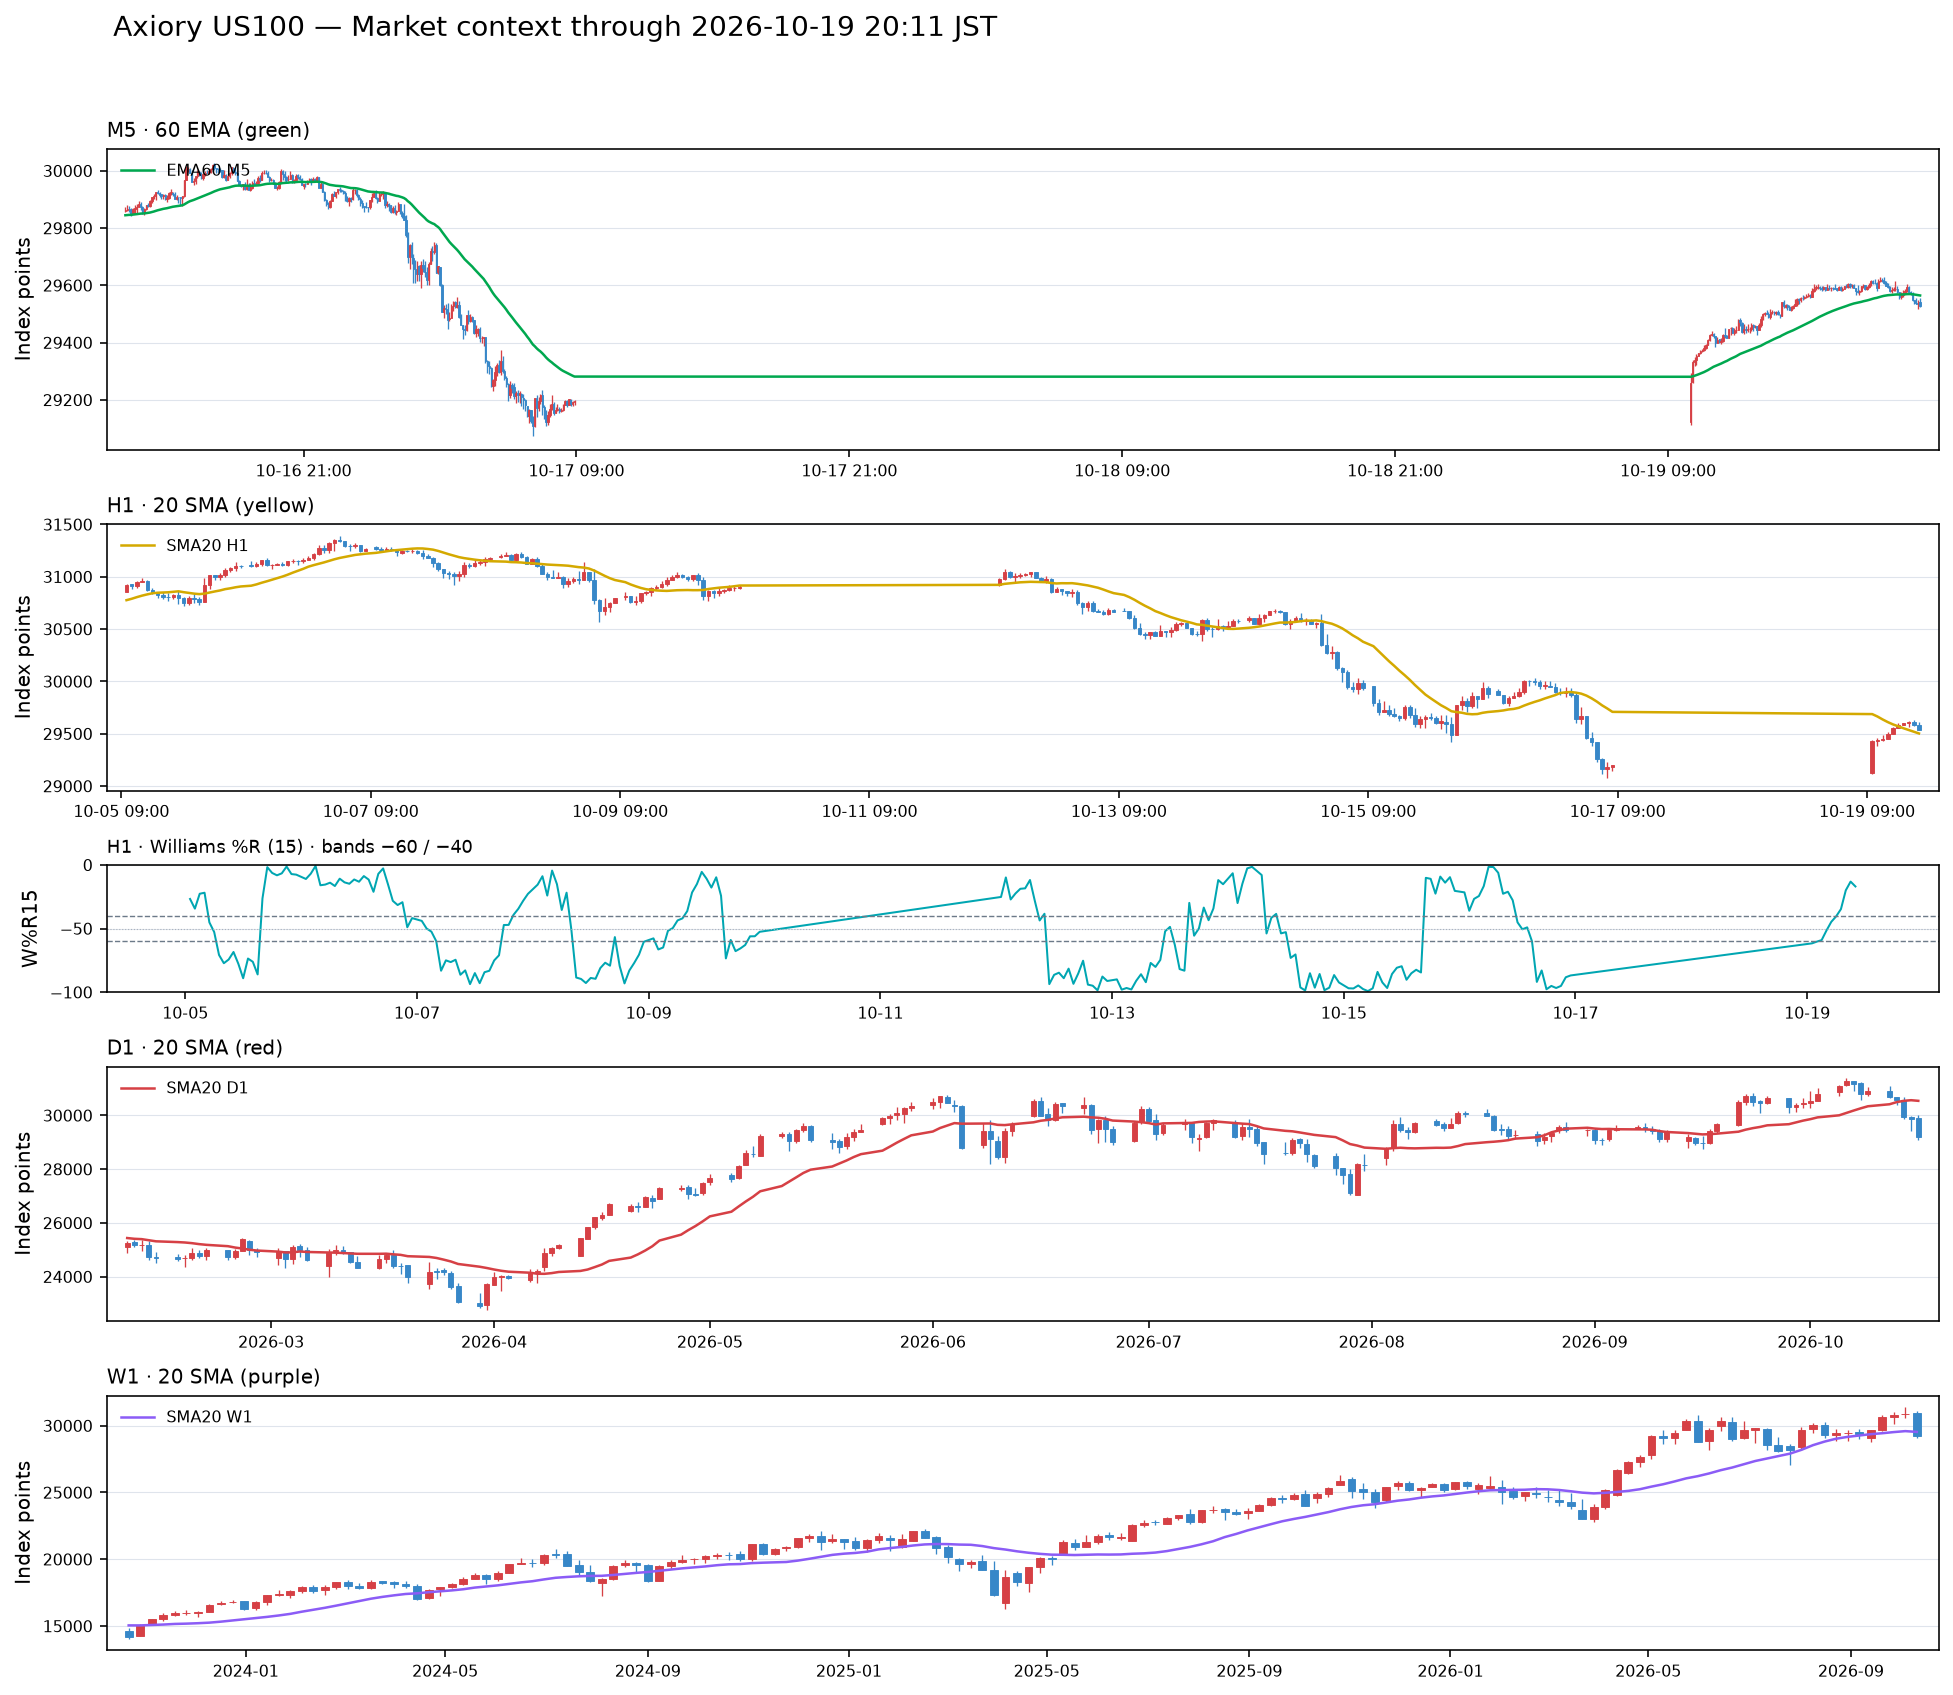
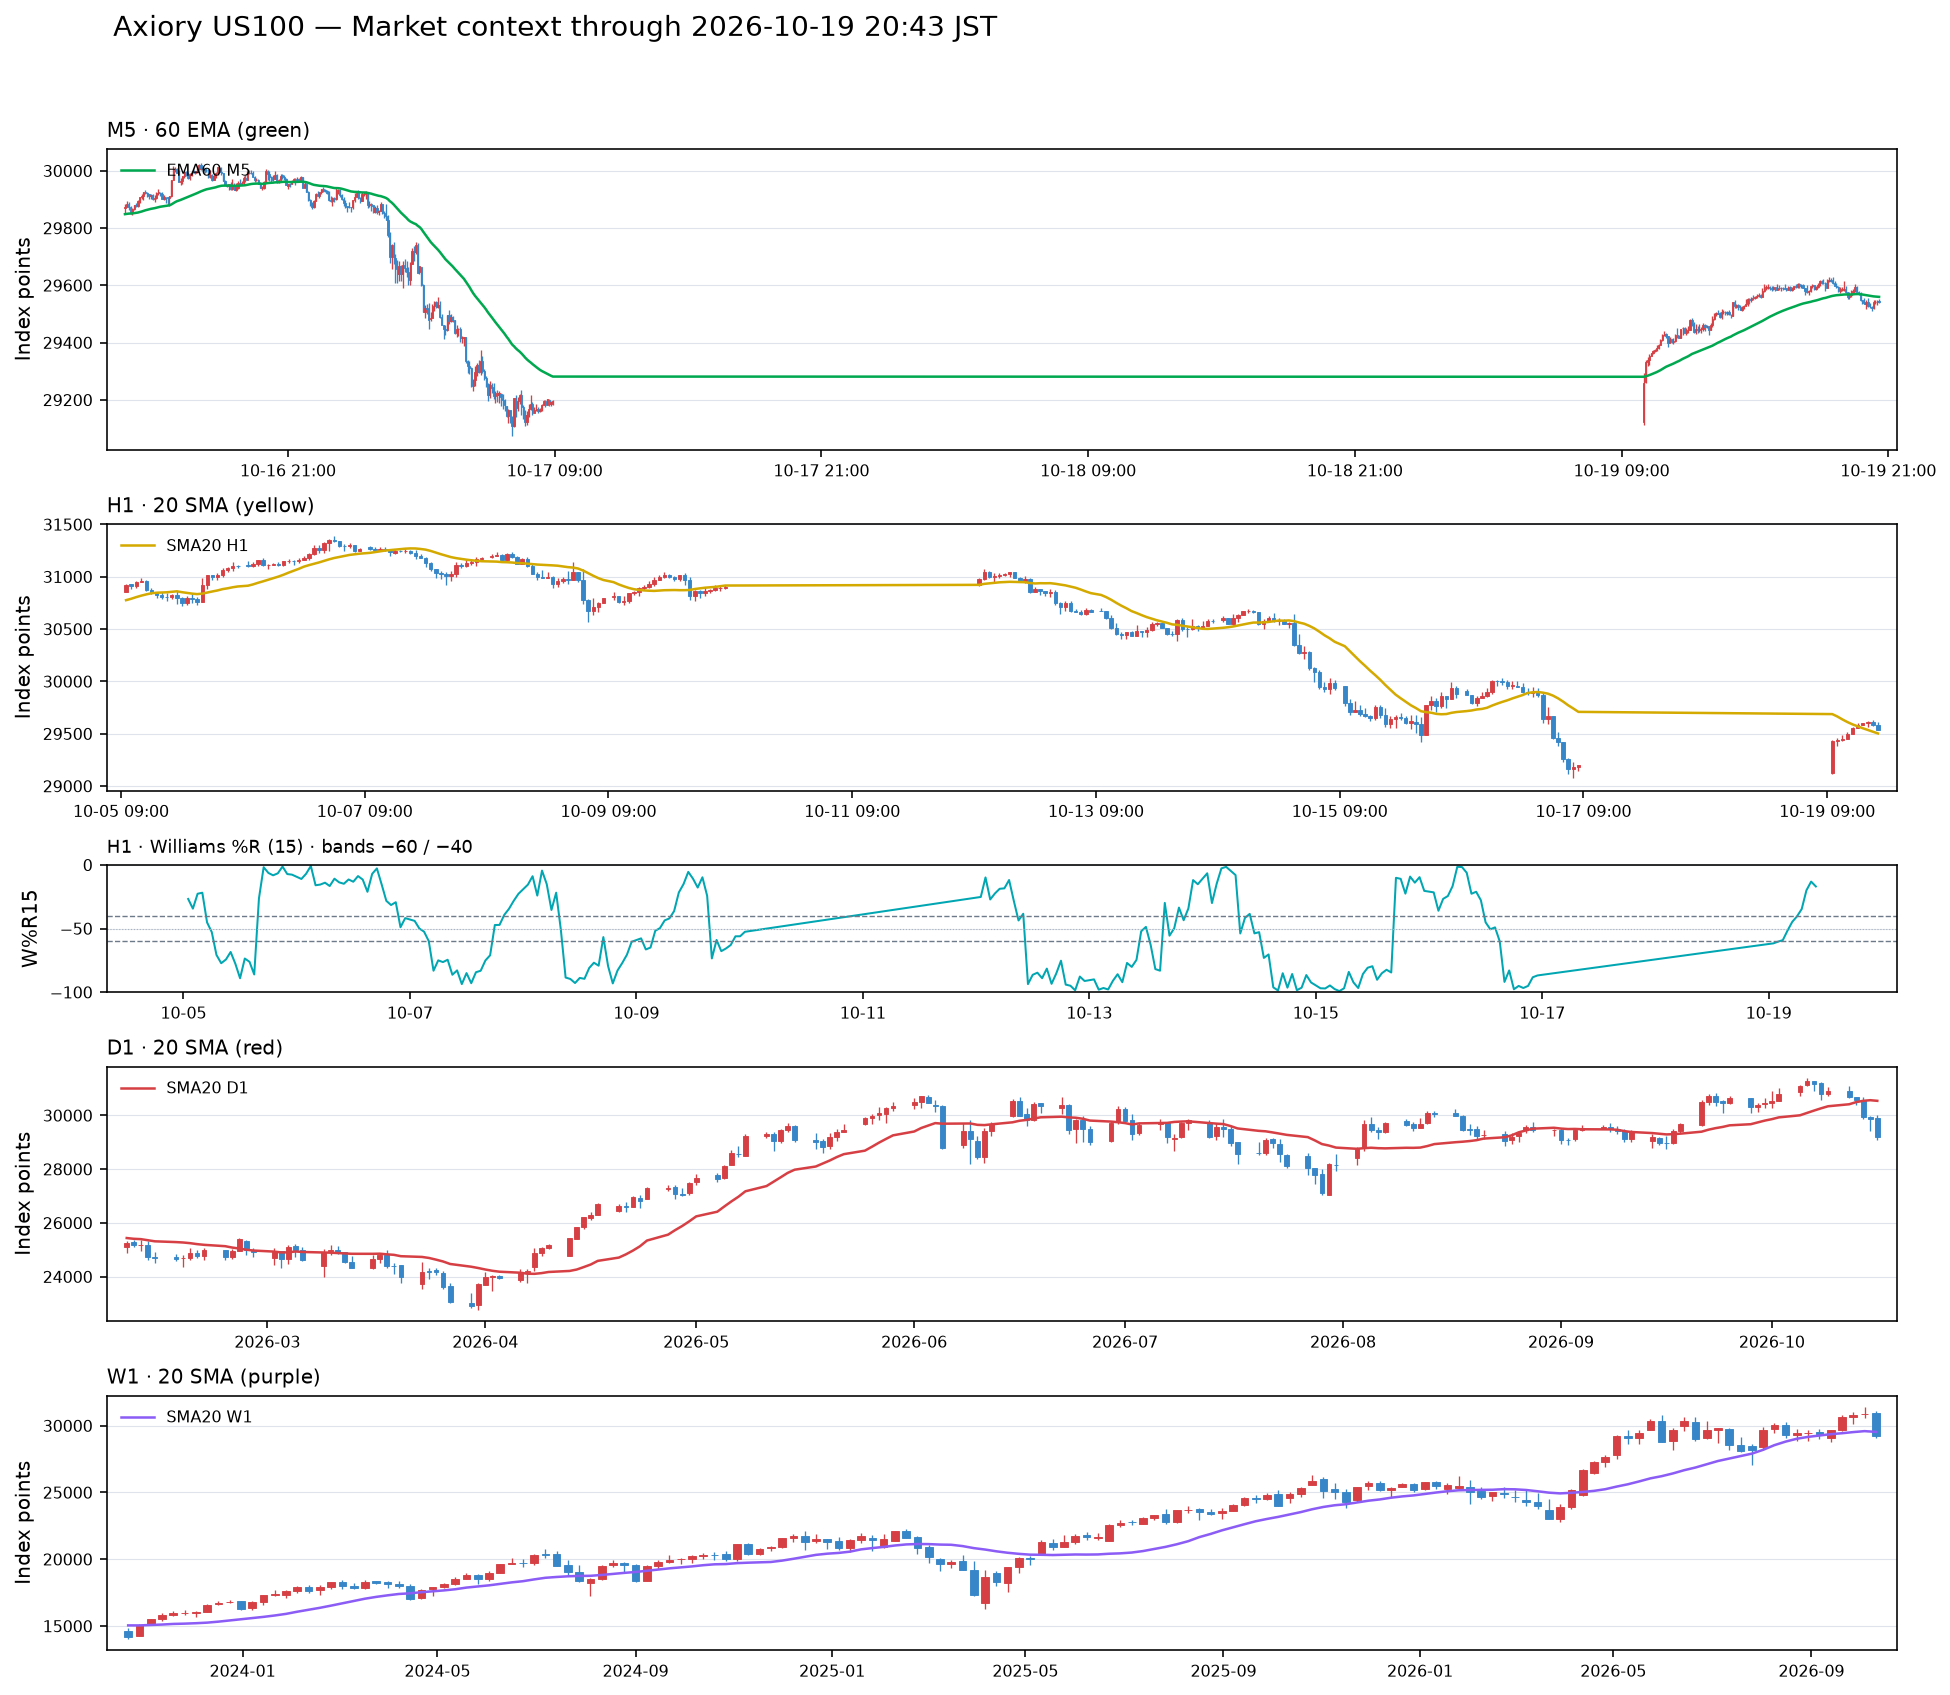
Refresh Oct 19 Axiory market journal

diff --git a/diaries/2026-10-19/market_context/market_context.md b/diaries/2026-10-19/market_context/market_context.md
@@ -1,16 +1,14 @@
 # US100・JP225 日次マーケット指標 — 2026-10-19（JST）
 
-- 生成時刻: 2026-10-19 20:11:05 JST
-- 確認範囲: 2026-10-13 15:30〜2026-10-19 20:11 JSTの累積履歴。今回受信した差分はUTC足開始時刻でマスターCSVへ統合しています。
-- M1未収録時刻（週末・日次休止を除く）: JP225は10/14 10:08、10:57、10/15 10:51–10:52、10/16 10:16、10:52–10:53、10/19 10:01、10:11 JSTに合計9分ぶんOHLCがありません。US100のM1と両銘柄のM5/H1に、この範囲内の追加空白はありません。MT5履歴にOHLCがない時間は合成せず、無ティックか配信側欠落かはCSVだけでは区別できません。
+- 生成時刻: 2026-10-19 20:43:14 JST
 - データ元: Axiory MetaTrader 5（銘柄名 JP225 / US100）。別口座のJP225Cash/US100Cashとは価格系列が異なります。
 - 時刻: CSVはUTC。日誌とチャートはJST。未確定足を除外しています。
 - 指標の読み方とチャート規約: [市場コンテキストのレシピ](../../market_context_recipe.md)
 
 | 銘柄 | M5終値 / EMA60（緑） | H1終値 / SMA20（黄） | W%R15 H1 | D1終値 / SMA20（赤） | W1終値 / SMA20（紫） | PO H1 / D1 / W1 |
 |---|---|---|---:|---|---|---|
-| JP225 | 64,511.60 / 64,695.38（終値が下） | 64,581.60 / 64,445.73（終値が上） | -27.27 上側（≥ -40） | 63,465.86 / 67,377.89（終値が下） | 63,465.86 / 66,702.04（終値が下） | なし / なし / 上昇PO |
-| US100 | 29,527.20 / 29,564.77（終値が下） | 29,534.81 / 29,502.96（終値が上） | -16.93 上側（≥ -40） | 29,197.16 / 30,542.90（終値が下） | 29,197.16 / 29,536.95（終値が下） | なし / なし / 上昇PO |
+| JP225 | 64,621.60 / 64,676.37（終値が下） | 64,581.60 / 64,445.73（終値が上） | -27.27 上側（≥ -40） | 63,465.86 / 67,377.89（終値が下） | 63,465.86 / 66,702.04（終値が下） | なし / なし / 上昇PO |
+| US100 | 29,543.20 / 29,559.81（終値が下） | 29,534.81 / 29,502.96（終値が上） | -16.93 上側（≥ -40） | 29,197.16 / 30,542.90（終値が下） | 29,197.16 / 29,536.95（終値が下） | なし / なし / 上昇PO |
 
 ## ソースCSV
 
@@ -31,14 +29,14 @@
 
 | 銘柄 | 足 | 保存本数 | 全履歴の最古足（JST） | 最終足の終了時刻（JST） | 今回の差分 |
 |---|---|---:|---|---|---:|
-| JP225 | M1 | 542,729 | 2025-04-07 10:00 | 2026-10-19 20:11 | 609本 |
-| JP225 | M5 | 108,823 | 2025-04-07 10:00 | 2026-10-19 20:10 | 122本 |
-| JP225 | H1 | 9,080 | 2025-04-07 10:00 | 2026-10-19 20:00 | 10本 |
+| JP225 | M1 | 542,761 | 2025-04-07 10:00 | 2026-10-19 20:43 | 32本 |
+| JP225 | M5 | 108,829 | 2025-04-07 10:00 | 2026-10-19 20:40 | 6本 |
+| JP225 | H1 | 9,080 | 2025-04-07 10:00 | 2026-10-19 20:00 | 0本 |
 | JP225 | D1 | 980 | 2023-01-03 09:00 | 2026-10-17 09:00 | 0本 |
 | JP225 | W1 | 197 | 2023-01-08 09:00 | 2026-10-18 09:00 | 0本 |
-| US100 | M1 | 542,589 | 2025-04-07 10:00 | 2026-10-19 20:11 | 611本 |
-| US100 | M5 | 108,535 | 2025-04-07 10:00 | 2026-10-19 20:10 | 122本 |
-| US100 | H1 | 9,055 | 2025-04-07 10:00 | 2026-10-19 20:00 | 10本 |
+| US100 | M1 | 542,621 | 2025-04-07 10:00 | 2026-10-19 20:43 | 32本 |
+| US100 | M5 | 108,541 | 2025-04-07 10:00 | 2026-10-19 20:40 | 6本 |
+| US100 | H1 | 9,055 | 2025-04-07 10:00 | 2026-10-19 20:00 | 0本 |
 | US100 | D1 | 980 | 2023-01-03 09:00 | 2026-10-17 09:00 | 0本 |
 | US100 | W1 | 197 | 2023-01-08 09:00 | 2026-10-18 09:00 | 0本 |
 
